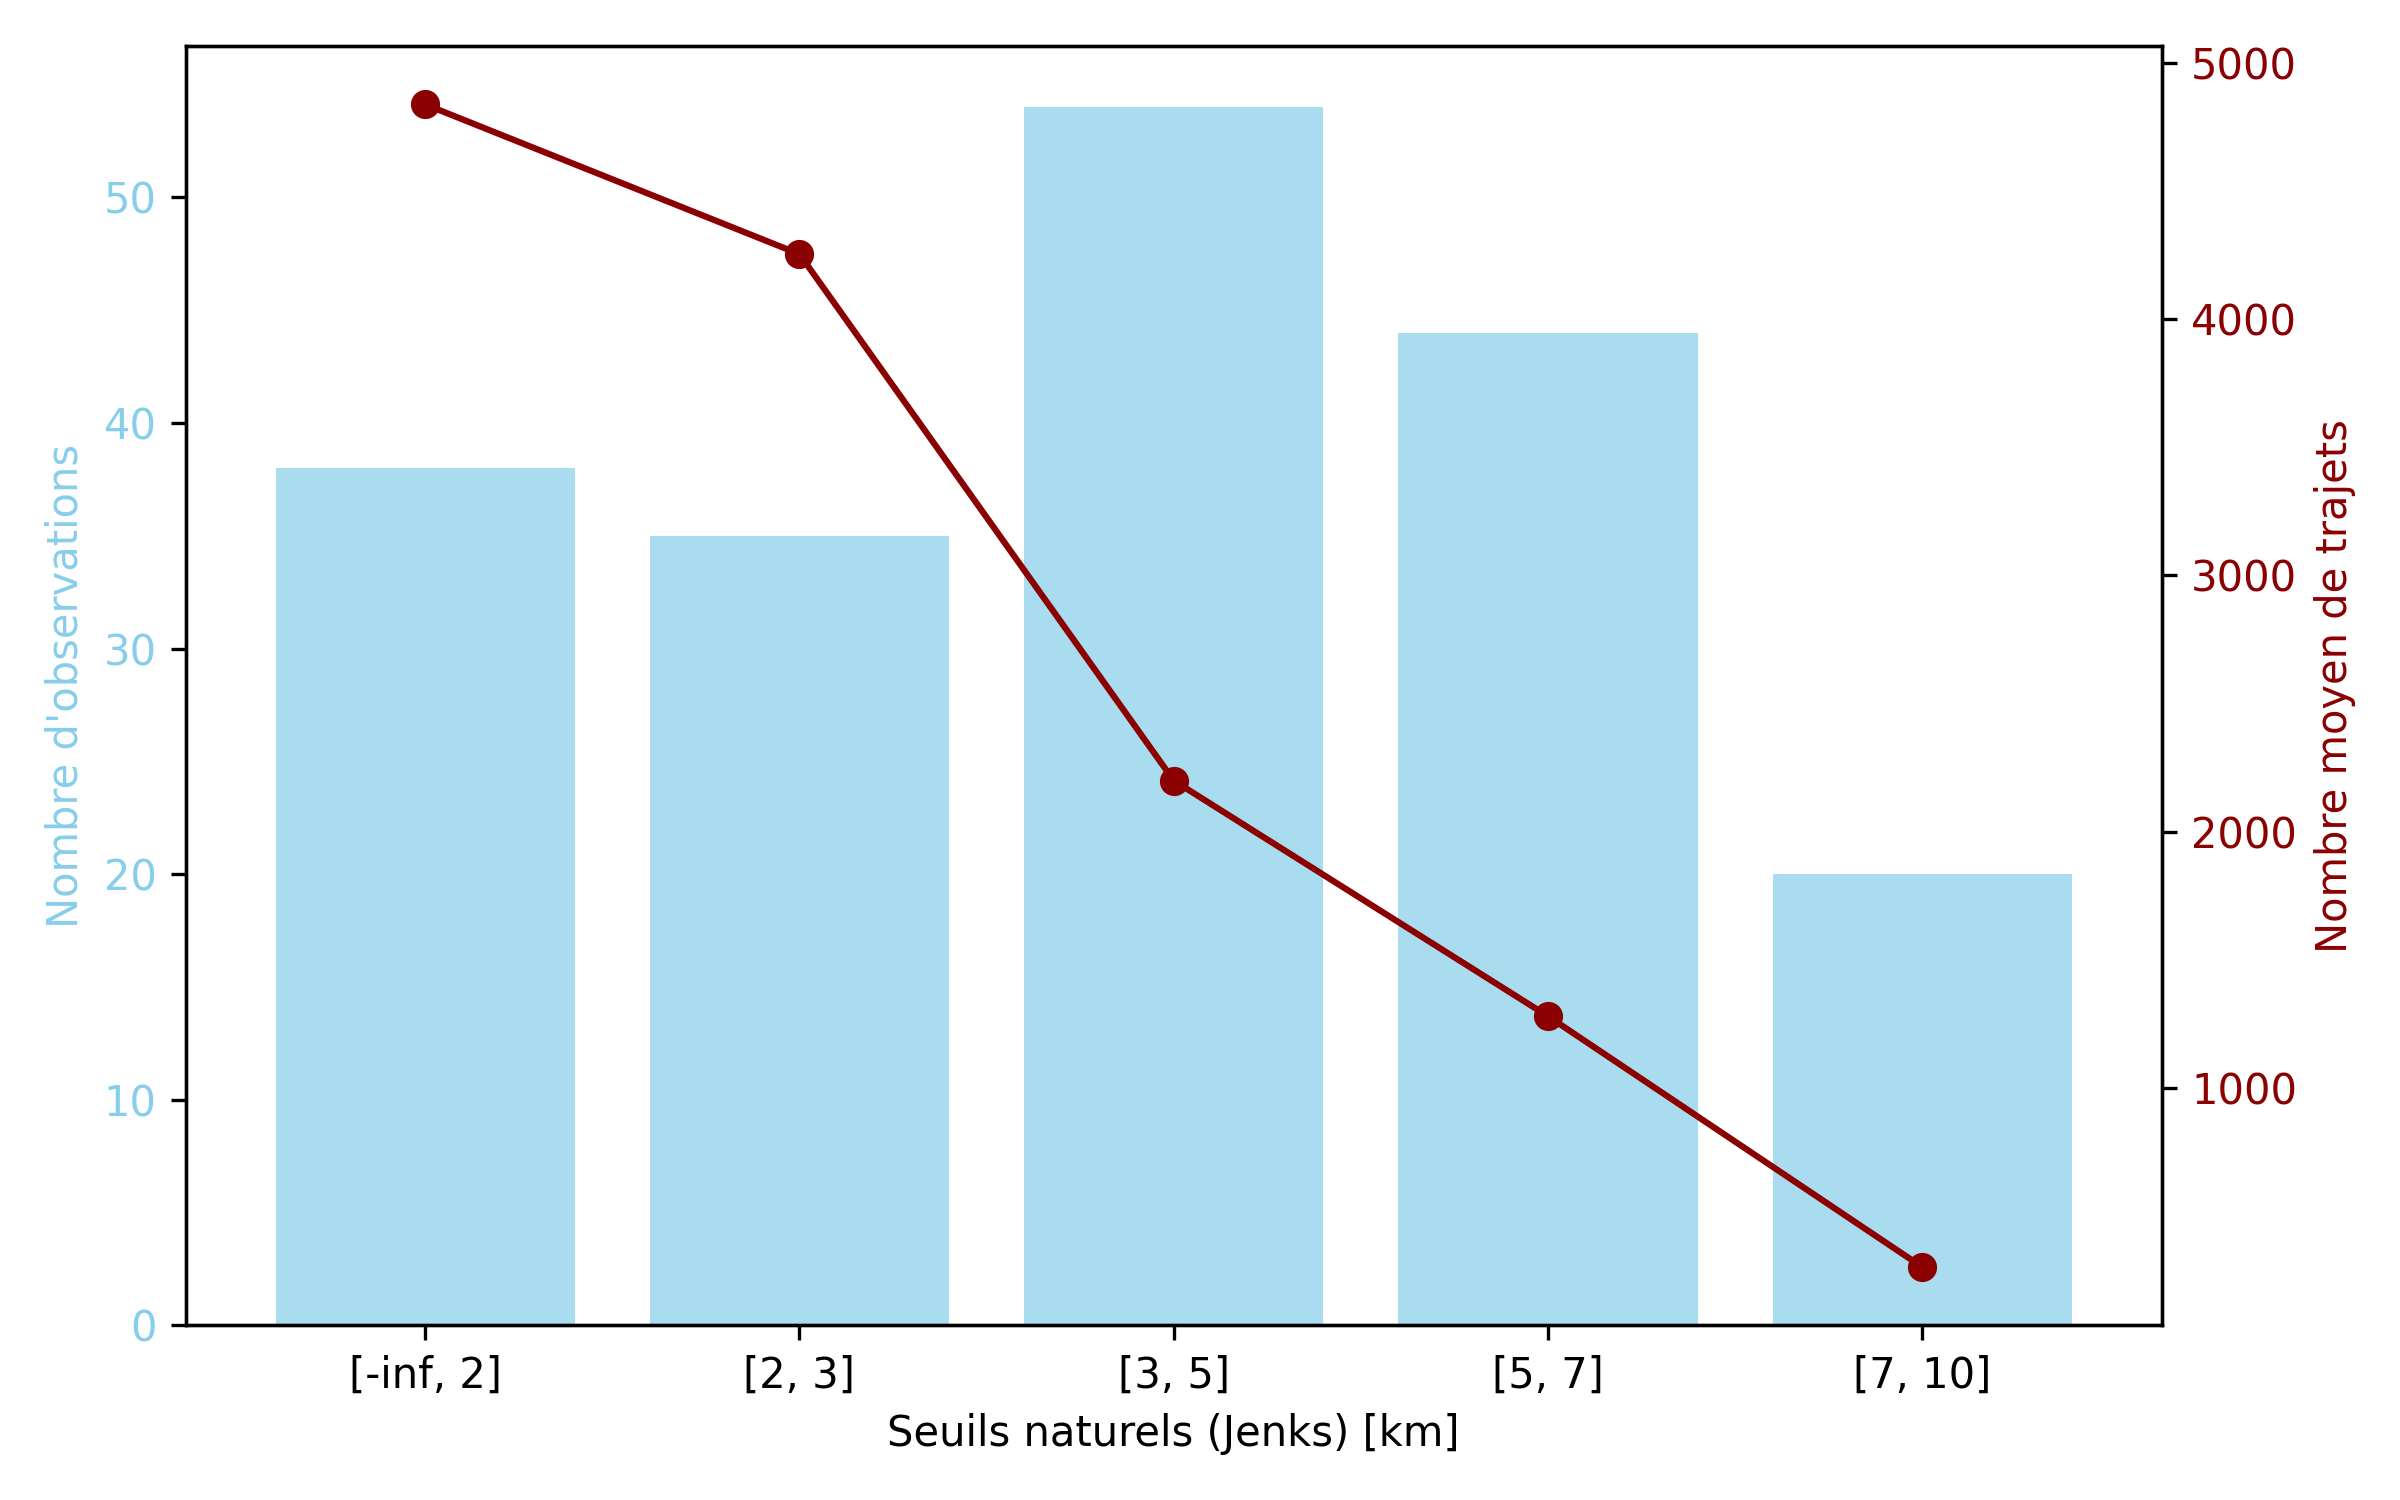
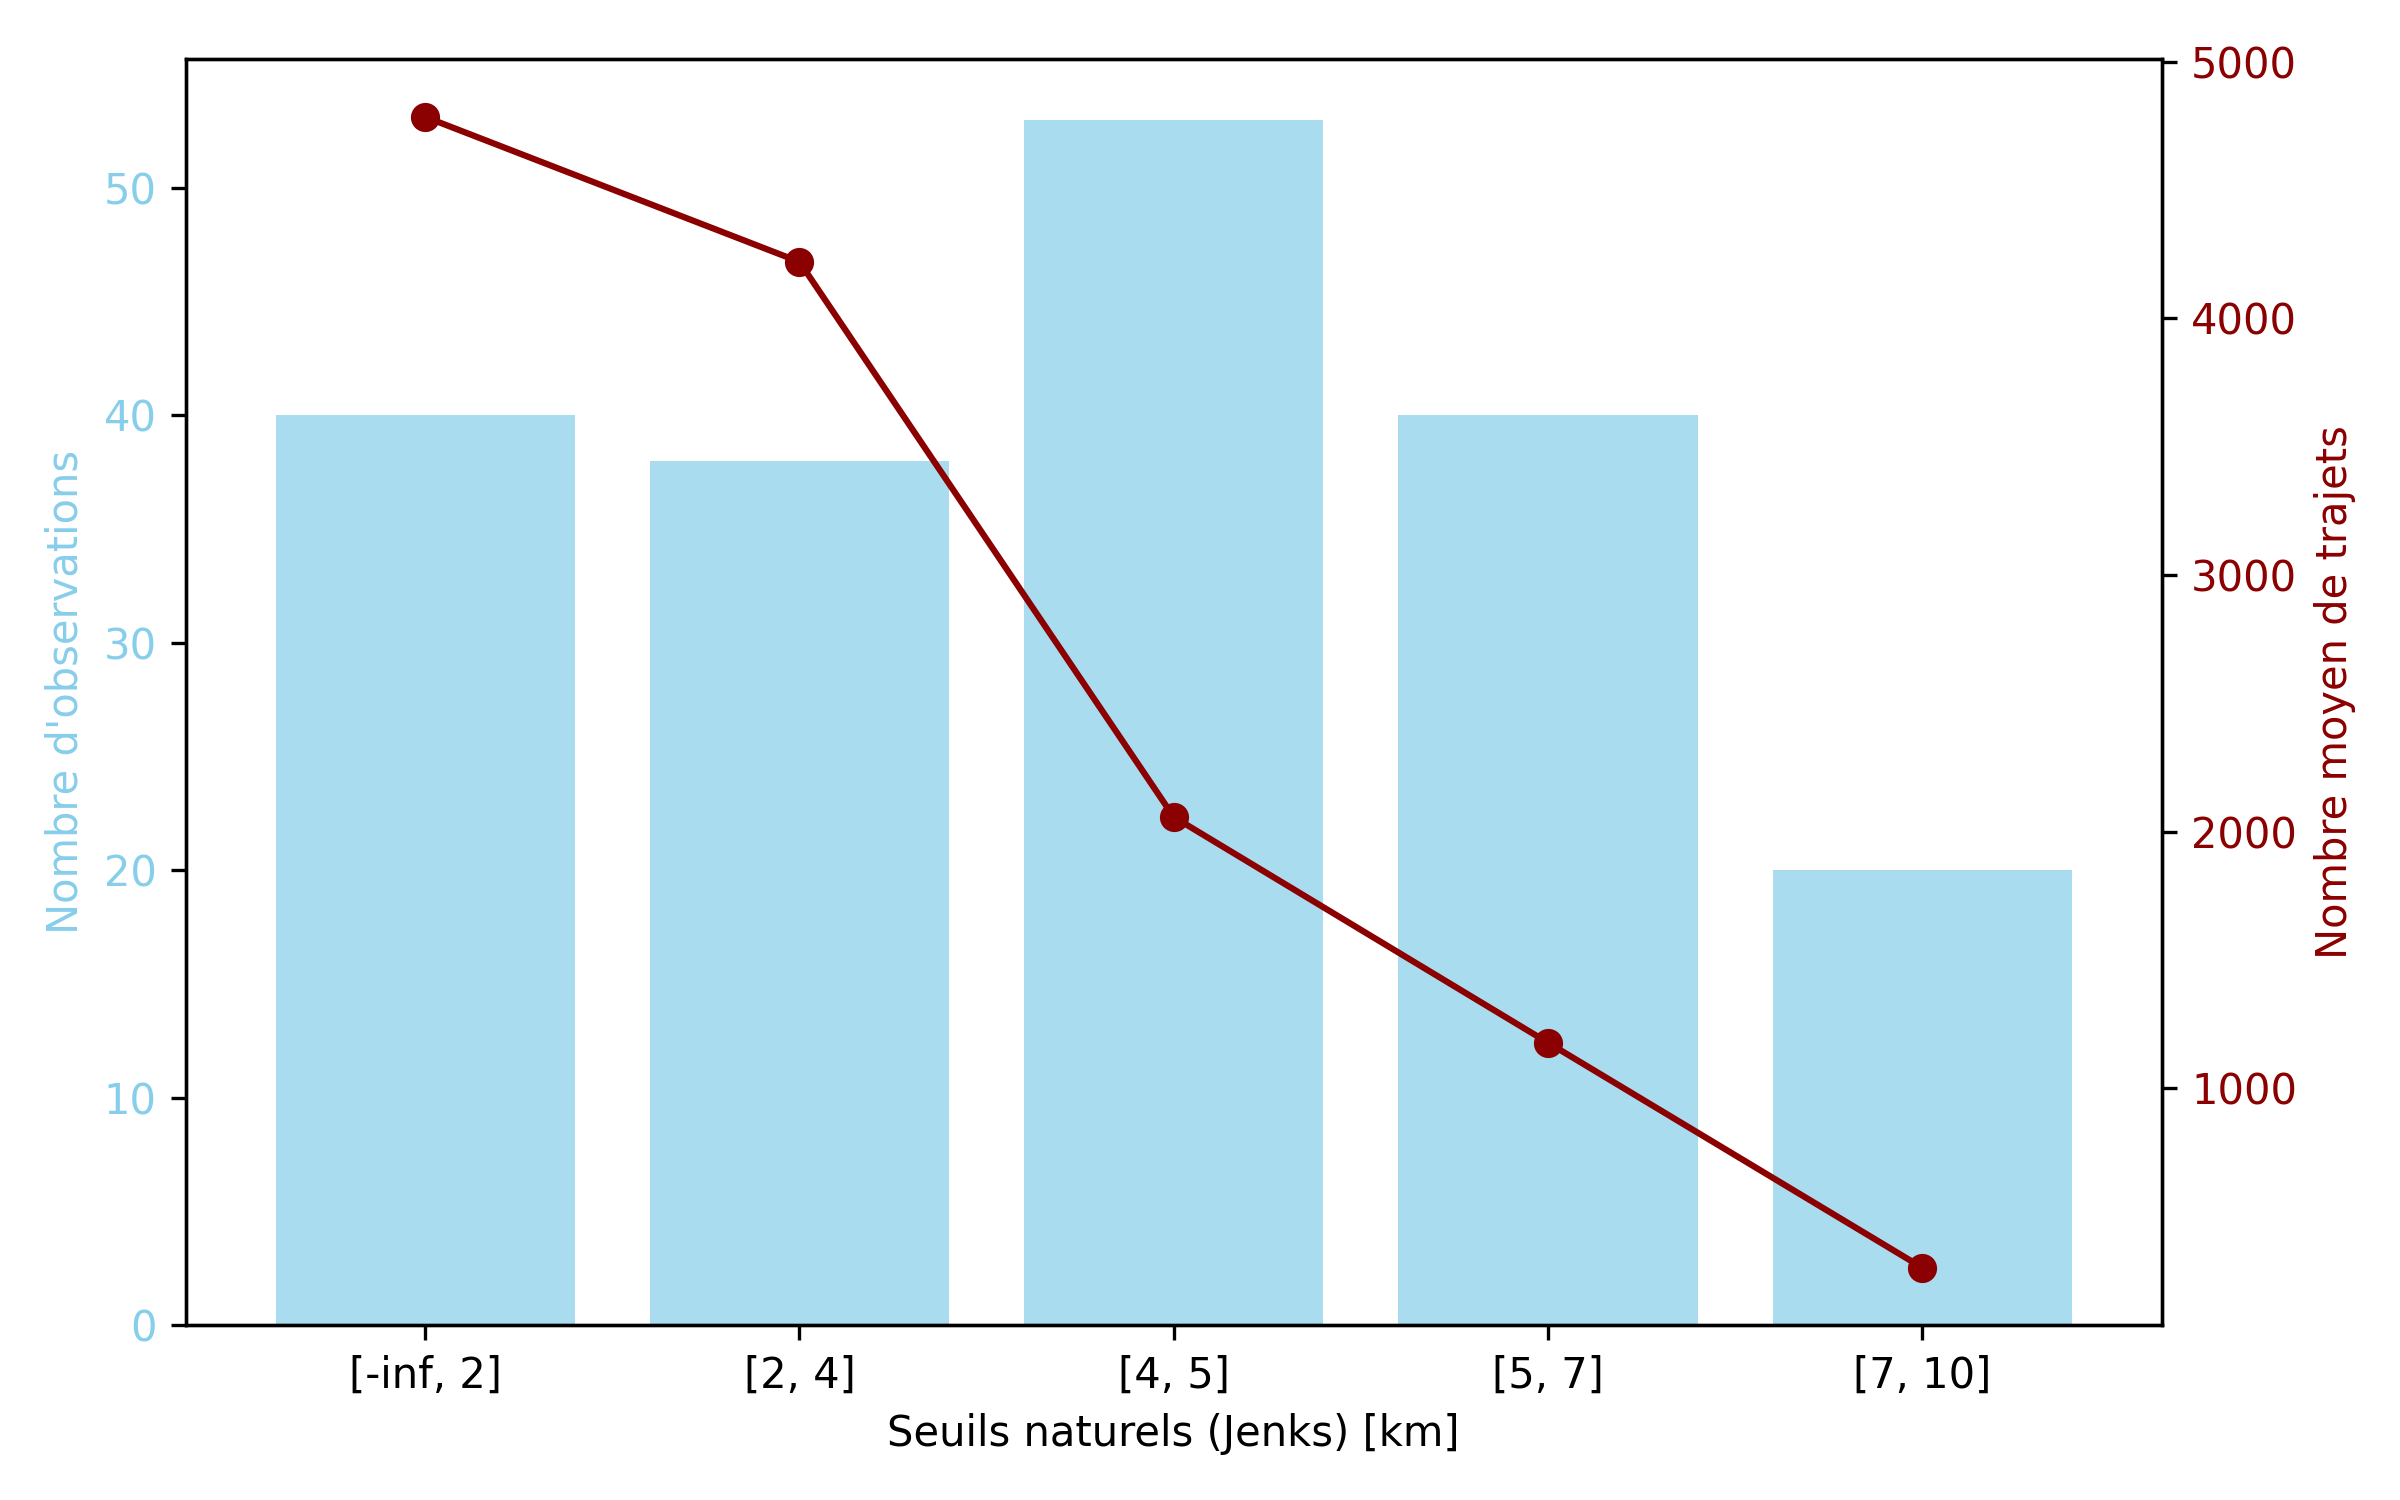
manual bins 4 s

diff --git a/scripts/visuals/generate_visuals.py b/scripts/visuals/generate_visuals.py
@@ -227,7 +227,7 @@ def analyser_zonage(hexagones, output_path ):
 
 def main():
     # Chargement des données
-    season = "hiver_2425"
+    season = "ete_2024"
     if season == "ete_2024":
         hexagones = gpd.read_file("../../data/processed/ete_2024/hexagones250m_ete_2024_popdens_bikepath_parcs_universites_zonage_logement_cegep.shp")
     elif season == "hiver_2324":
@@ -265,7 +265,8 @@ def main():
         manual_bins = [0, 200, 500, 1000, 1500, np.inf]
         )
     analyser_relation(hexagones, "l4s_m", "nb_trajets", f"{season}/longueur_piste_cyclable_4saisons_vs_trajets",
-                      correlation_csv=f"../../output/{season}/correlations.csv", x_unit="m", decimals=0)
+                      correlation_csv=f"../../output/{season}/correlations.csv", x_unit="m", decimals=0,
+                      manual_bins=[0, 200, 500, 1000, 1500, np.inf])
 
     #analyser_relation(hexagones, "p4s_m", "nb_trajets", f"{season}/longueur_piste_cyclable_4saisons_protege_vs_trajets",
     #                  correlation_csv=f"../../output/{season}/correlations.csv", x_unit="m", decimals=0)
